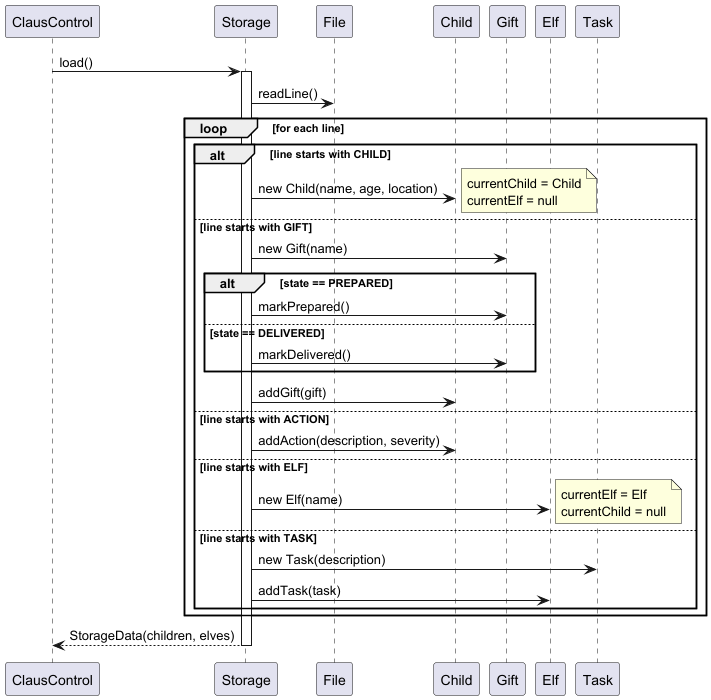
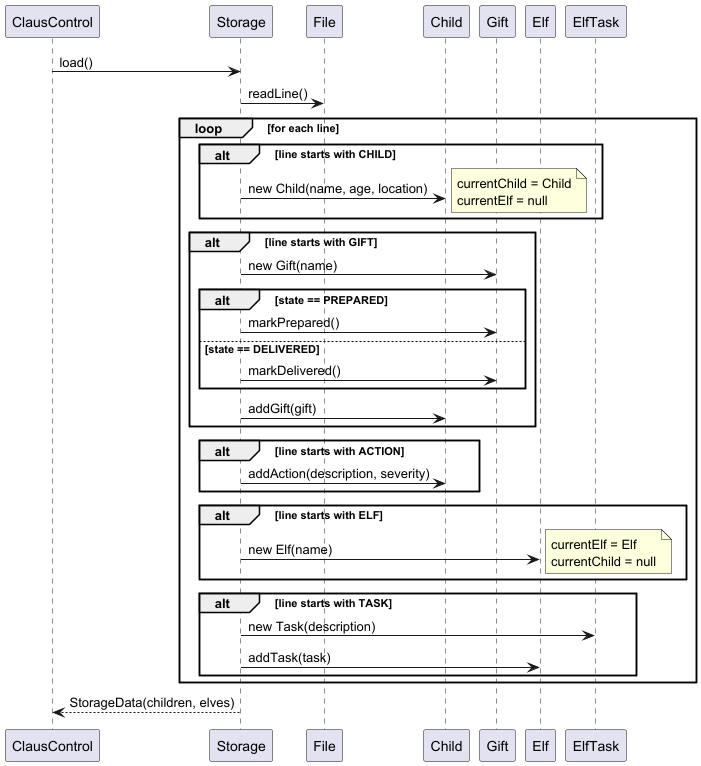
Add Design documentation for Storage in DG

diff --git a/src/main/java/seedu/clauscontrol/commands/ResetCommand.java b/src/main/java/seedu/clauscontrol/commands/ResetCommand.java
@@ -10,6 +10,7 @@ public class ResetCommand extends Command {
     @Override
     public String execute() {
         logger.log(Level.INFO, "Initiating full system reset...");
+        isFinalized = false;
         
         if (childList != null) {
             childList.clear();

diff --git a/docs/DeveloperGuide.md b/docs/DeveloperGuide.md
@@ -13,6 +13,47 @@
 | **ChatGPT**                                                                                         | The load() function of Storage class was written with the aid of ChatGPT. <br/> The prepareAdd() and prepareEdit() functions of the Parser class (along with their refactored helpers) were reused from ChatGPT with significant modifications. ChatGPT was also used for trivial debugging.                                                                                                                                                                                                                                                                                                                                                                                                                                                                                                                                                    |
 | **Claude**                                                                                          | The tool was used for trivial debugging of ParserTest class after a merge conflict.                                                                                                                                                                                                                                                                                                                                                                                                                                                                                                                                                                                                                                                                                                                                                             |
 
+
+
+## Storage Component
+
+**API:** `Storage.java`
+
+#### Overview
+The Storage component is responsible for managing persistent data in ClausControl.
+
+It handles saving and loading of  data such as:
+- Children and their associated gifts and actions
+- Elves and their assigned tasks
+- Todo items
+Data is stored in a file and loaded back into the system when the application starts.
+
+#### Responsibilities
+The Storage component:
+- Saves application data to local device.
+- Loads saved data.
+
+#### Implementation
+The Storage component interacts with the following classes:
+- child
+- gift
+- elf
+- elftask
+- todo
+
+#### Design
+The storage component provides a unified interface (`Storage.java`) that handles the storage related operations.
+
+#### Usage
+- When the application starts, data is loaded from storage.
+- When the user inputs commands,the resulting data changes are saved.
+
+#### Sequence diagram to show control flow
+![StorageSequenceDiagram.png](diagrams/StorageSequenceDiagram.png)
+
+#### Notes
+- Storage is independent of the command execution logic
+
 ## Design & implementation
 
 ### Finalize Feature (Shubhan Gabra)

diff --git a/docs/UserGuide.md b/docs/UserGuide.md
@@ -194,12 +194,13 @@ Example:
 
 #### Update delivery status: `delivery_status`
 Assigns delivery status of gifts as delivered/undelivered.
-* Format: `delivery_status CHILD_INDEX GIFT_INDEX d/delivery_status `
+* Format: `delivery_status CHILD_INDEX GIFT_INDEX d/[status] `
 * The user inputs the child index, gift index and delivery status. 
 * Assigns delivery status (delivered/undelivered) to a gift in the gift list based on the input child index and gift index. 
 * The index must be a positive integer 1, 2, 3
 Example:
-* `deliver 1 2 delivered`
+* `delivery_status 1 2 d/delivered`
+* `delivery_status 1 1 d/undelivered`
 
 #### View gift list: `giftlist`
 Displays all gifts assigned to children.

diff --git a/docs/team/prerana-r11.md b/docs/team/prerana-r11.md
@@ -57,8 +57,12 @@ Allows Santa to access saved data(childlist,giftlist and elflist) across all ses
 
 ### Contributions to Team-Based Tasks
 * Set up Google Docs for planning tasks.
+* Helped in documentation of UG and DG.
+* Released JAR files on Github.
+* Helped in testing of implemented commands and reported bugs to fix.
 * Reviewed PRs from teammates
 
 
 ### Review/Mentoring Contributions
 * Helped teammates resolve Git merge conflicts
+* Resolved merge conflicts of team members 
